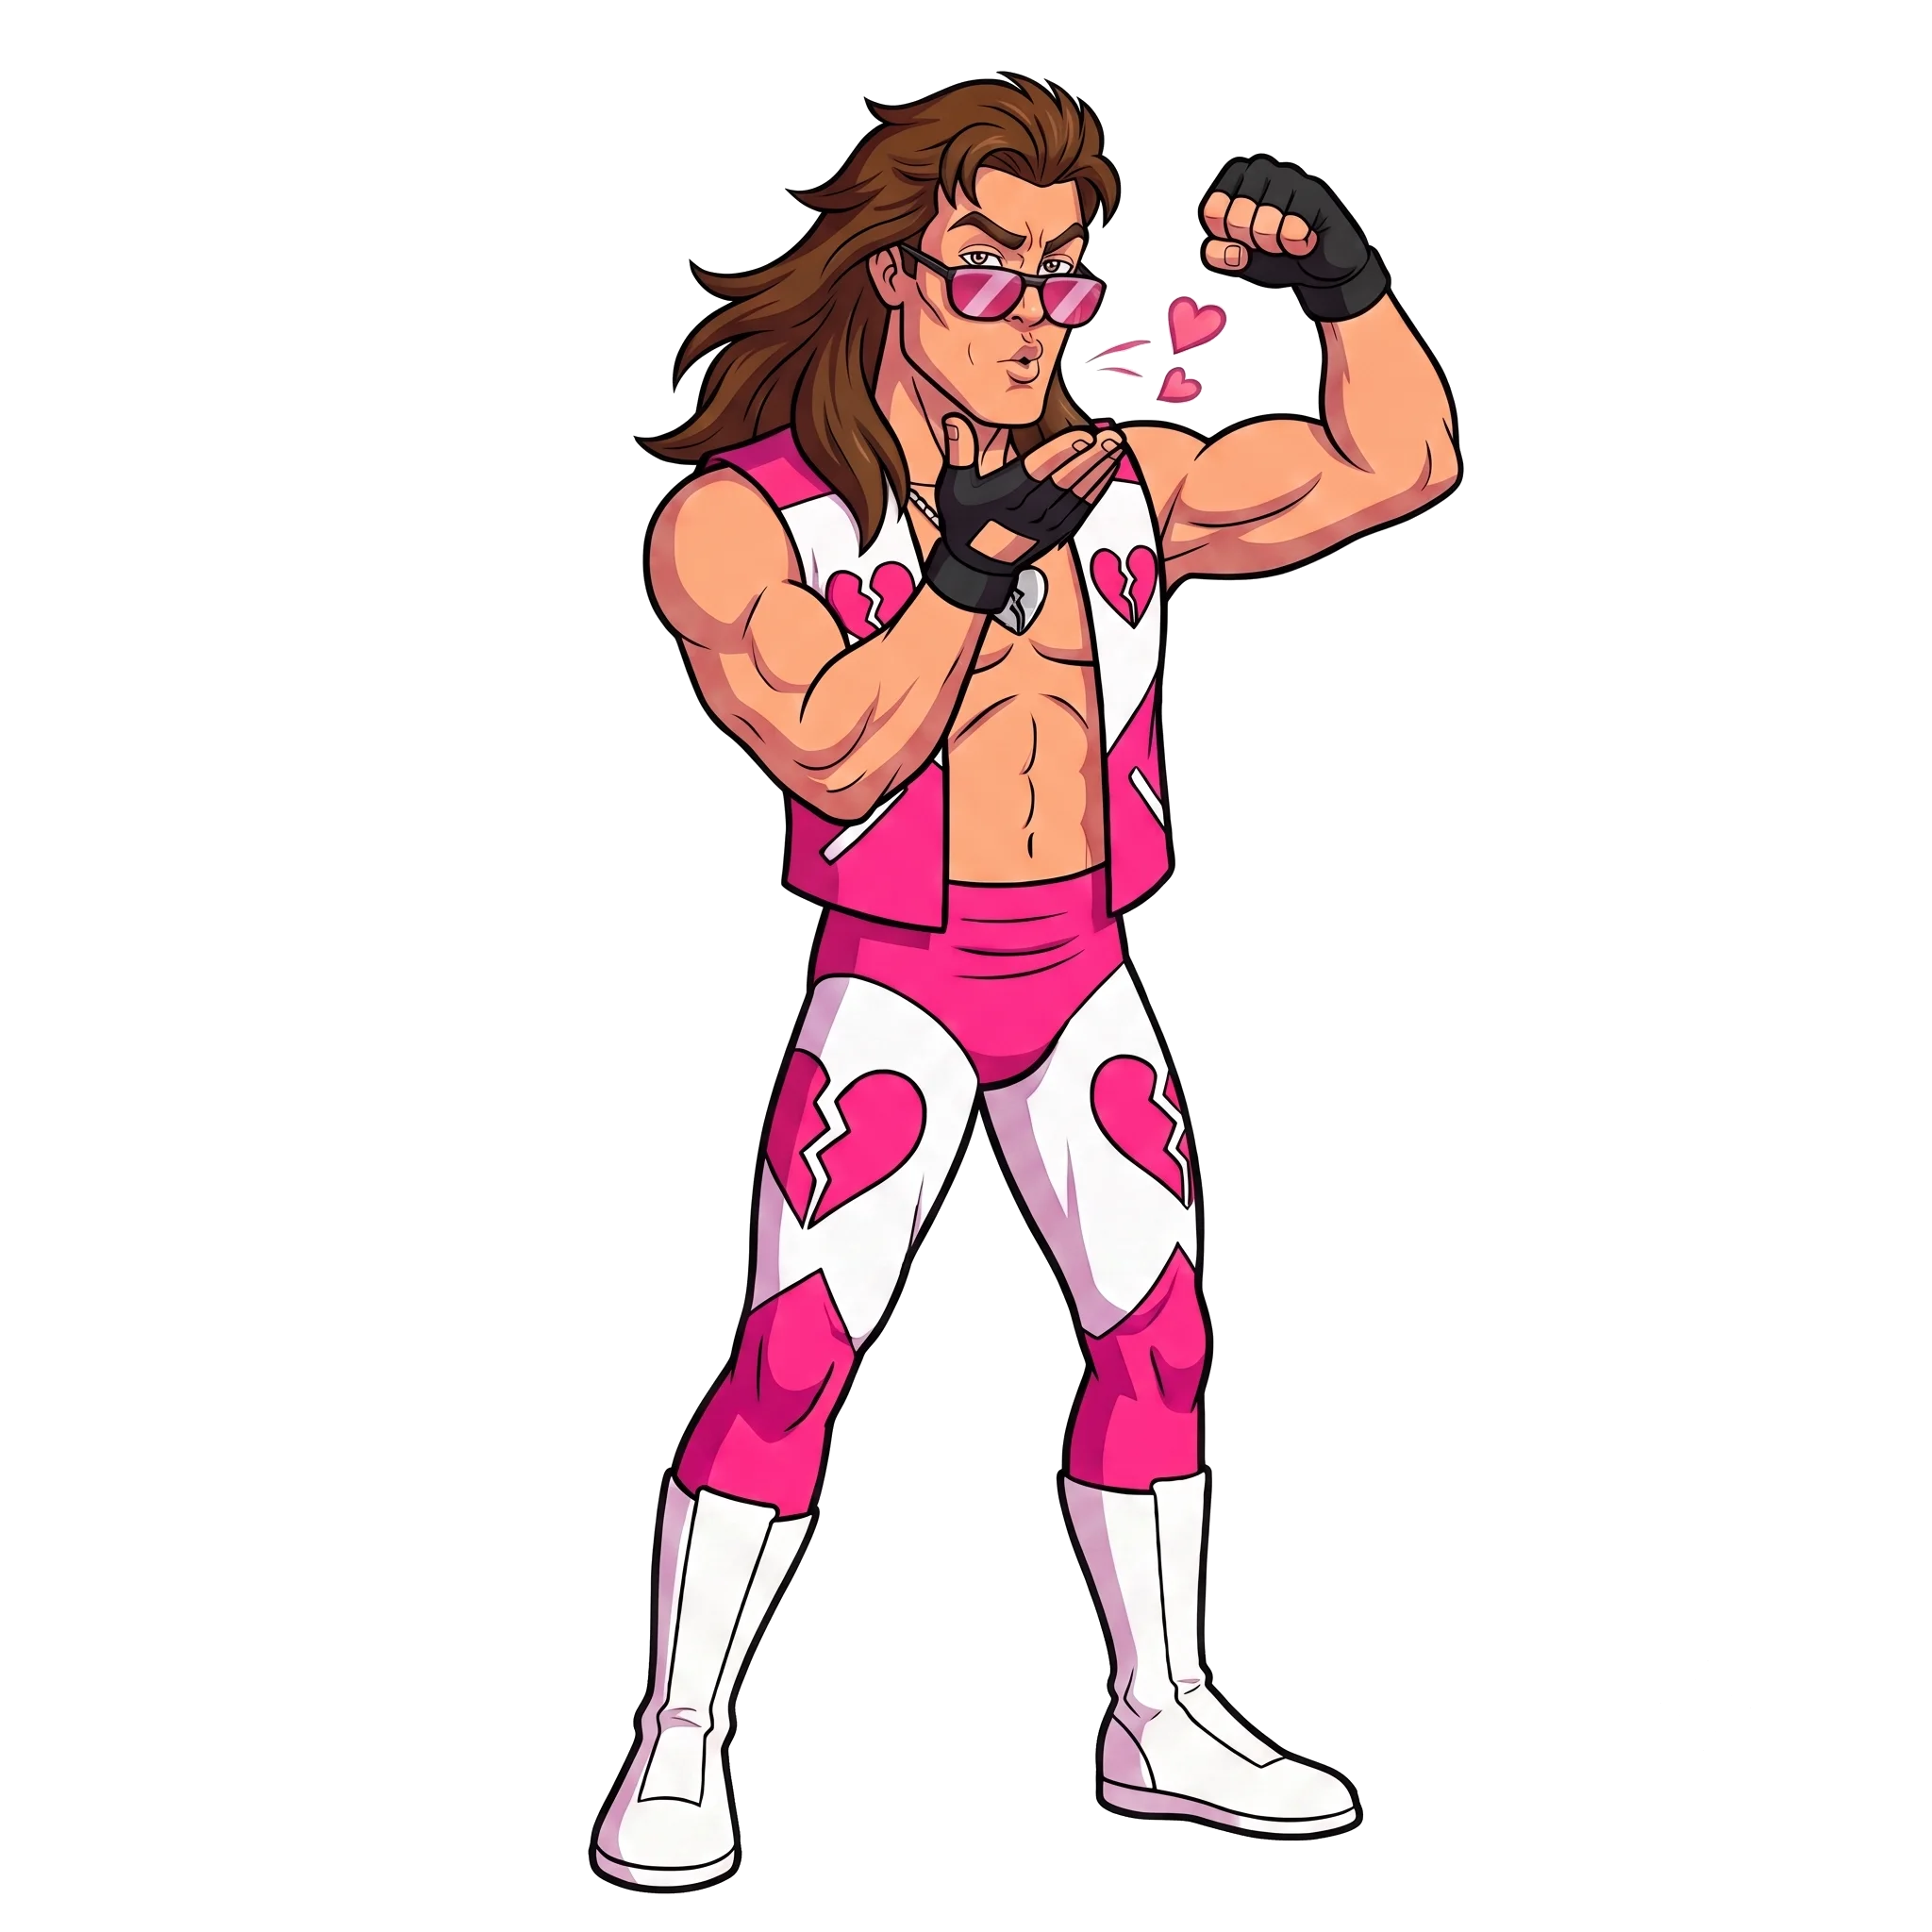
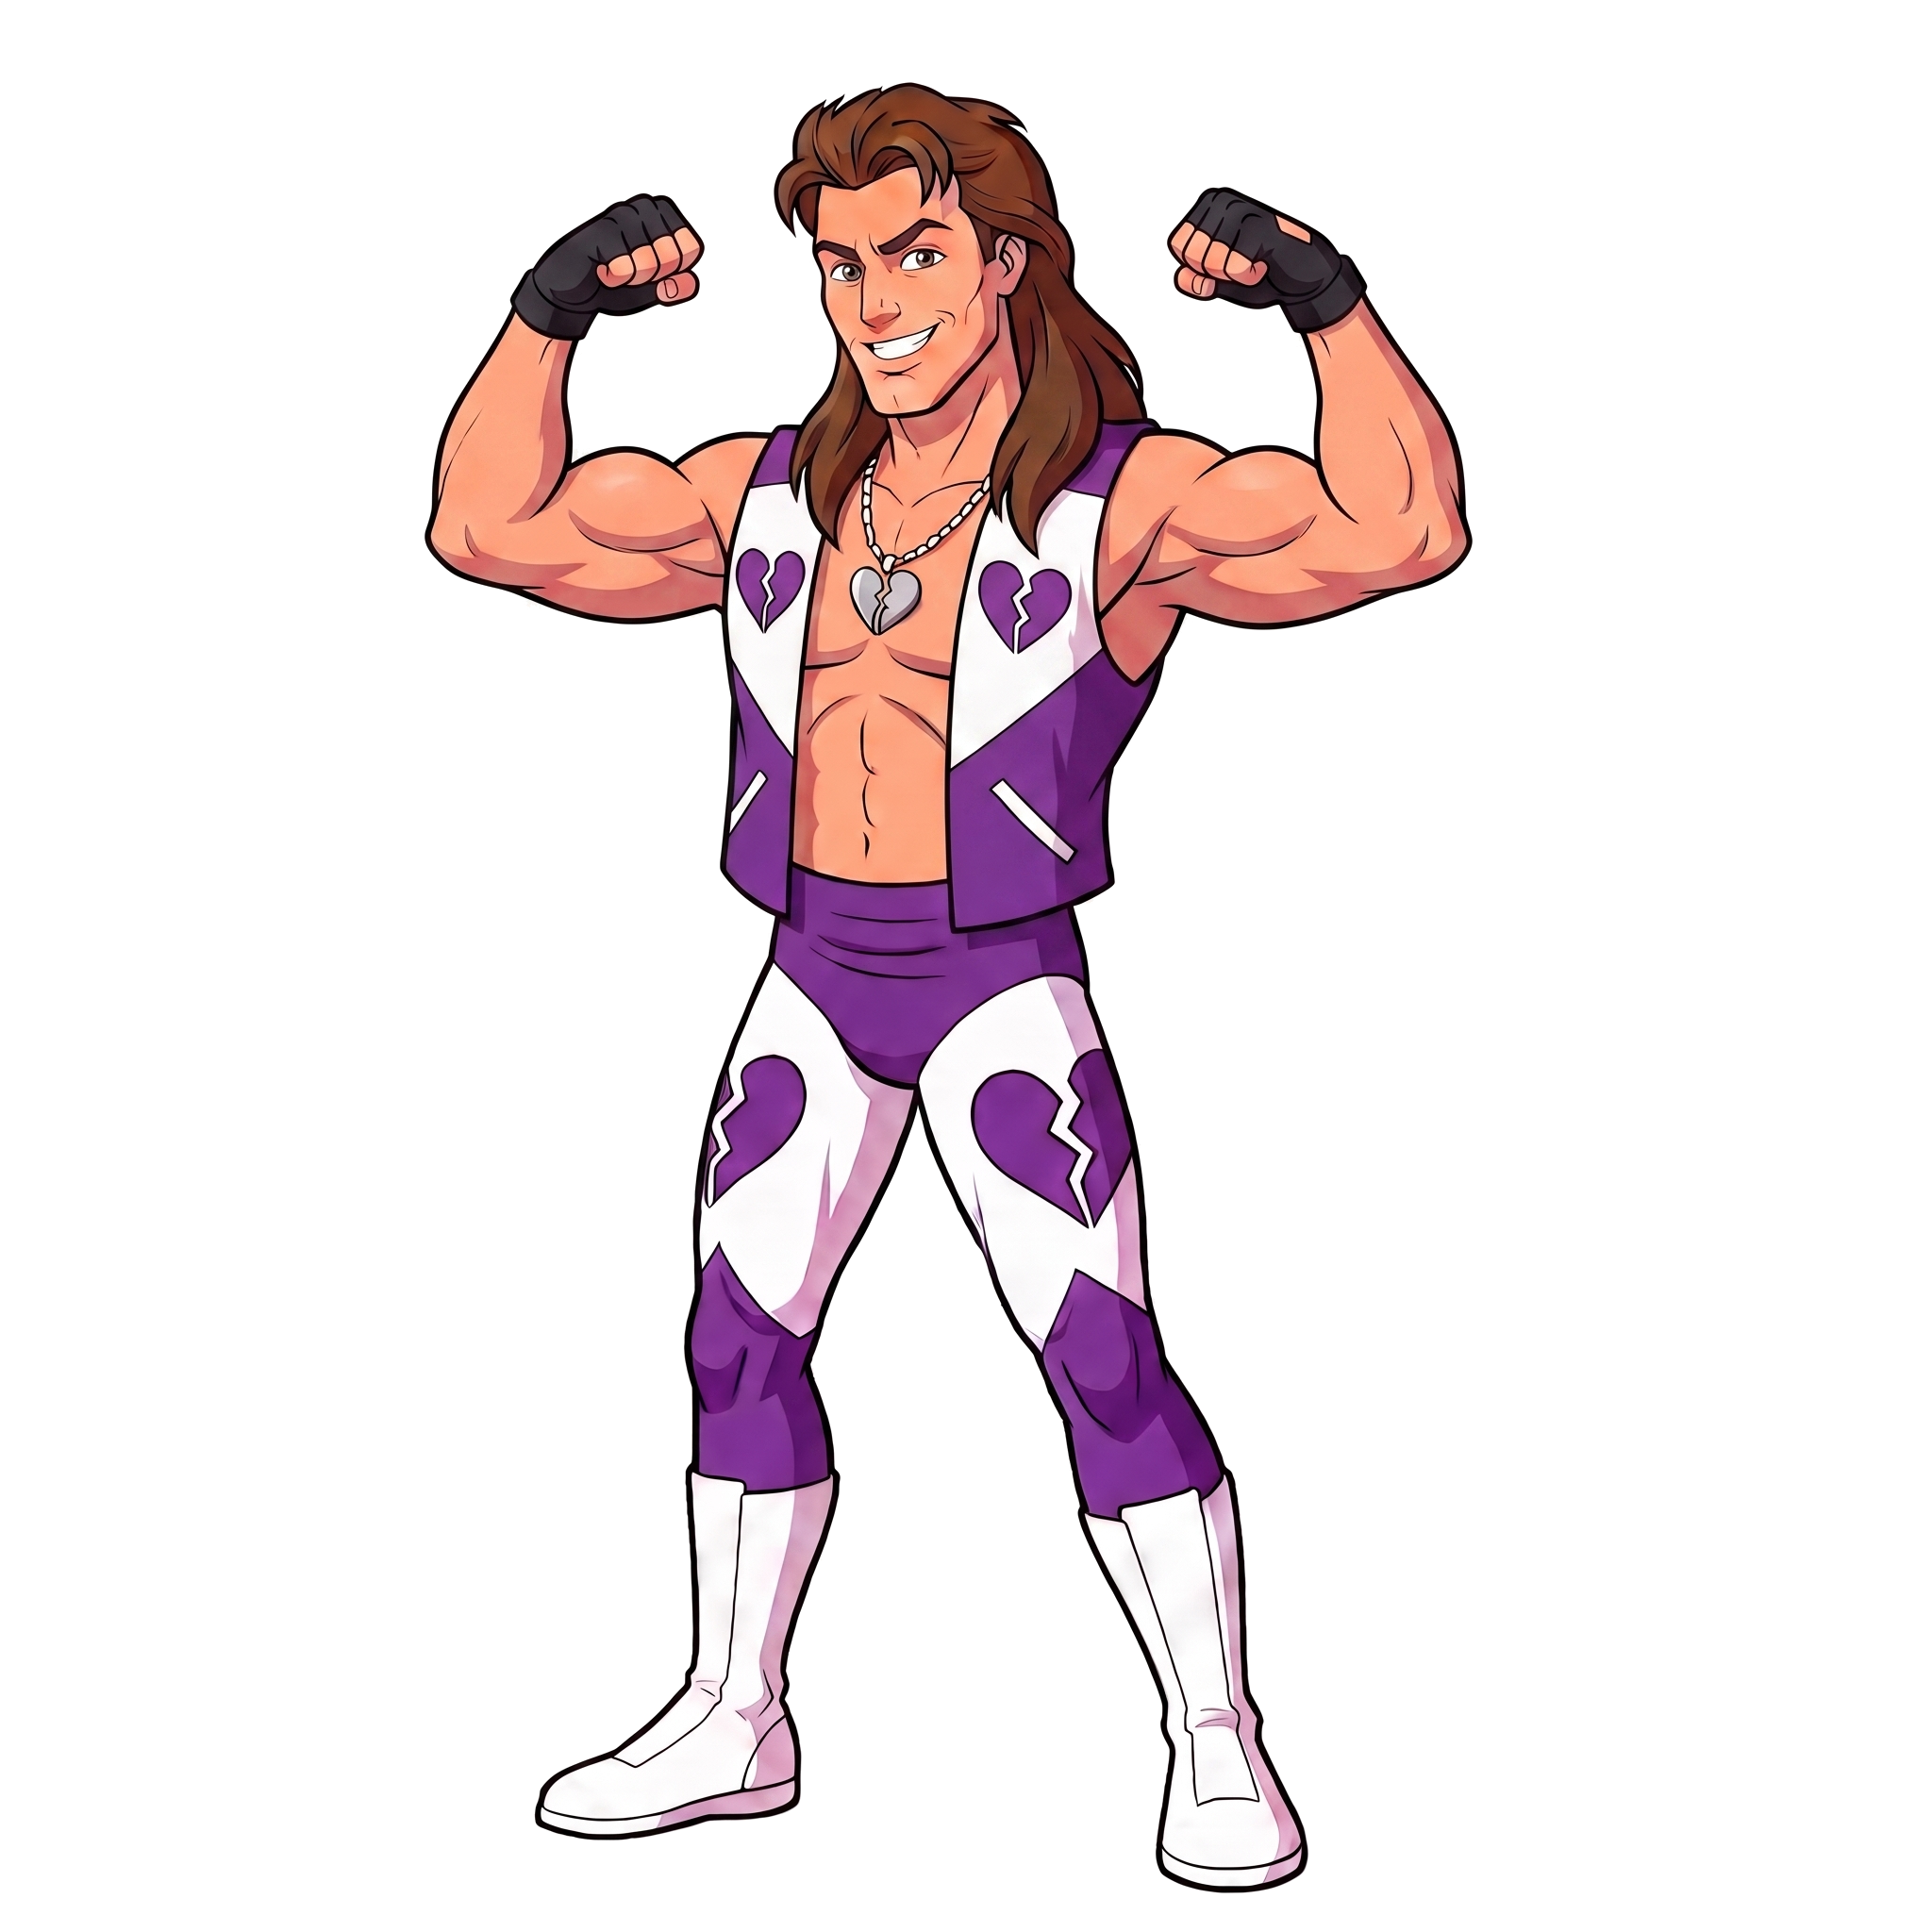
v8.5.7

Changed region(s): [[0.2188, 0.0312, 0.7812, 1.0]]

diff --git a/styles.css b/styles.css
@@ -2006,24 +2006,24 @@ body.career-view .presentation-summary .winner-celebration{
 /* 8.5.5 champion record */
 .lpw855-champion-record{display:block;margin-top:.35rem;color:#d9d9df;font-style:normal;font-size:.9rem;font-weight:700;letter-spacing:.08em}
 
-/* 8.5.6 — illustrated decision cards. Jett Valentine only. */
-.jett-decision-presentation{max-width:1120px!important}
-.jett-decision-grid{display:grid;grid-template-columns:repeat(3,minmax(0,1fr));gap:14px;margin-top:16px}
-.jett-decision-card{position:relative;display:block;overflow:hidden;aspect-ratio:3/2;padding:0;border:2px solid #a8792a;border-radius:14px;background:#08080a;color:#fff;cursor:pointer;box-shadow:0 12px 28px rgba(0,0,0,.42);isolation:isolate;transition:transform .18s ease,border-color .18s ease,box-shadow .18s ease}
-.jett-decision-card:hover,.jett-decision-card:focus-visible{transform:translateY(-4px);border-color:#f2cf69;box-shadow:0 17px 35px rgba(0,0,0,.58),0 0 0 2px rgba(242,207,105,.18)}
+/* 8.5.7 — illustrated decision cards. Jett Valentine only. */
+.jett-decision-presentation{max-width:780px!important;max-height:calc(100dvh - 24px);overflow-y:auto;overscroll-behavior:contain;padding-bottom:22px!important}
+.jett-decision-grid{display:grid;grid-template-columns:1fr;gap:14px;margin:16px auto 0;max-width:720px}
+.jett-decision-card{position:relative;display:block;width:100%;overflow:hidden;aspect-ratio:3/2;padding:0;border:2px solid #a8792a;border-radius:14px;background:#08080a;color:#fff;cursor:pointer;box-shadow:0 12px 28px rgba(0,0,0,.42);isolation:isolate;transition:transform .18s ease,border-color .18s ease,box-shadow .18s ease}
+.jett-decision-card:hover,.jett-decision-card:focus-visible{transform:translateY(-3px);border-color:#f2cf69;box-shadow:0 17px 35px rgba(0,0,0,.58),0 0 0 2px rgba(242,207,105,.18)}
 .jett-card-art,.jett-card-art img,.jett-card-shade{position:absolute;inset:0;display:block;width:100%;height:100%}
 .jett-card-art img{object-fit:cover;object-position:center}
-.jett-card-shade{background:linear-gradient(180deg,transparent 42%,rgba(0,0,0,.34) 62%,rgba(0,0,0,.94) 100%);z-index:1}
-.jett-card-copy{position:absolute;z-index:2;left:0;right:0;bottom:0;padding:18px 15px 14px;text-align:left;text-shadow:0 2px 5px #000}
-.jett-card-copy small{display:block;color:#f3cf64;font-size:.62rem;font-weight:900;letter-spacing:.17em;margin-bottom:4px}
-.jett-card-copy b{display:block;font-family:Impact,Haettenschweiler,'Arial Narrow Bold',sans-serif;font-size:clamp(1.05rem,2vw,1.55rem);font-style:italic;letter-spacing:.025em;line-height:1;text-transform:uppercase}
+.jett-card-shade{background:linear-gradient(90deg,transparent 26%,rgba(0,0,0,.08) 48%,rgba(0,0,0,.64) 76%,rgba(0,0,0,.94) 100%);z-index:1}
+.jett-card-copy{position:absolute;z-index:2;right:0;bottom:0;width:min(70%,520px);padding:18px 18px 15px;text-align:right;text-shadow:0 2px 5px #000}
+.jett-card-copy small{display:block;color:#f3cf64;font-size:.72rem;font-weight:900;letter-spacing:.17em;margin-bottom:5px}
+.jett-card-copy b{display:block;font-family:Impact,Haettenschweiler,'Arial Narrow Bold',sans-serif;font-size:clamp(1.25rem,4vw,2rem);font-style:italic;letter-spacing:.025em;line-height:1;text-transform:uppercase}
 @media(max-width:760px){
- .jett-decision-presentation{padding:18px 12px!important}
+ .jett-decision-presentation{padding:18px 12px 24px!important;max-height:calc(100dvh - 12px)}
  .jett-decision-presentation h2{font-size:1.55rem!important;margin:.35rem 0!important}
  .jett-decision-presentation>p{font-size:.8rem!important;margin:.35rem auto .7rem!important}
- .jett-decision-grid{gap:7px;margin-top:10px}
- .jett-decision-card{border-radius:9px;border-width:1px}
- .jett-card-copy{padding:11px 8px 8px}
- .jett-card-copy small{font-size:.43rem;letter-spacing:.1em;margin-bottom:2px}
- .jett-card-copy b{font-size:clamp(.68rem,3vw,.92rem)}
+ .jett-decision-grid{gap:10px;margin-top:10px}
+ .jett-decision-card{border-radius:10px;border-width:1px}
+ .jett-card-copy{width:72%;padding:12px 11px 10px}
+ .jett-card-copy small{font-size:.5rem;letter-spacing:.11em;margin-bottom:3px}
+ .jett-card-copy b{font-size:clamp(.95rem,5.2vw,1.35rem)}
 }

diff --git a/index.html b/index.html
@@ -19,7 +19,7 @@
   </style>
   <script>
   (function(){
-    var key='lpw-cache-8.5.5';
+    var key='lpw-cache-8.5.7';
     if(!sessionStorage.getItem(key)){
       sessionStorage.setItem(key,'1');
       if('serviceWorker' in navigator){navigator.serviceWorker.getRegistrations().then(function(rs){return Promise.all(rs.map(function(r){return r.unregister();}));}).catch(function(){});}
@@ -27,16 +27,16 @@
     }
   })();
   </script>
-  <link rel="stylesheet" href="styles.css?v=8.5.5">
-  <script>window.TTG_APP_VERSION='8.5.5';</script>
-  <script src="update-manager.js?v=8.5.5" defer></script>
-  <script src="data.js?v=8.5.5" defer></script>
-  <script src="assets/config/imageManager.js?v=8.5.5" defer></script>
-  <script src="game.js?v=8.5.5" defer></script>
+  <link rel="stylesheet" href="styles.css?v=8.5.7">
+  <script>window.TTG_APP_VERSION='8.5.7';</script>
+  <script src="update-manager.js?v=8.5.7" defer></script>
+  <script src="data.js?v=8.5.7" defer></script>
+  <script src="assets/config/imageManager.js?v=8.5.7" defer></script>
+  <script src="game.js?v=8.5.7" defer></script>
 </head>
 <body>
   <div id="lpw-boot-screen"><div><b>LEGACY</b><span>PRO WRESTLING</span><small>Loading current game data…</small></div></div>
-  <header><button onclick="home()" class="logo"><span>LEGACY</span><b>PRO WRESTLING</b></button><div class="header-meta"><span class="build-tag">VERSION 8.5.5</span><div class="streak">STREAK <strong id="streak">0</strong></div></div></header>
+  <header><button onclick="home()" class="logo"><span>LEGACY</span><b>PRO WRESTLING</b></button><div class="header-meta"><span class="build-tag">VERSION 8.5.7</span><div class="streak">STREAK <strong id="streak">0</strong></div></div></header>
   <main id="app"></main><div id="overlay"></div>
   <script>
     window.setTimeout(function(){

diff --git a/game.js b/game.js
@@ -1361,7 +1361,7 @@ const LPW_DECISION_GUIDANCE=true;
 function lpwRiskLabel(chance){return chance>=.68?{key:'favourable',label:'FAVOURABLE'}:chance>=.52?{key:'balanced',label:'BALANCED'}:{key:'risky',label:'RISKY'}}
 function lpwAttrNames(action){return (ACTION_META[action]?.attrs||[]).map(x=>x.charAt(0).toUpperCase()+x.slice(1)).join(' + ')}
 function lpwGuidance(action){return ({risk:'Huge swing if it lands; failure can hand control away.',control:'Reliable way to steady the match and protect your position.',pressure:'Builds control without committing everything to one moment.',comeback:'Can reverse a crisis quickly; failure may deepen the danger.',survive:'Safer counter that stabilises the match for a smaller reward.',finisher:'Match-ending potential with the highest consequences if countered.',tag:'Uses teamwork and fresh energy to change the match.'})[action]||'Changes the next exchange.'}
-/* 8.5.6 Decision Card Framework — enabled only for Jett Valentine. */
+/* 8.5.7 Decision Card Framework — enabled only for Jett Valentine. */
 const JETT_DECISION_CARDS={
  opening:[
   {name:'Steal the Spotlight',slug:'steal-the-spotlight',action:'risk'},

diff --git a/service-worker.js b/service-worker.js
@@ -1,5 +1,5 @@
 /* LEGACY Pro Wrestling Service Worker 8.3.7 Build 9 */
-const APP_VERSION = '8.5.6-jett-decision-cards';
+const APP_VERSION = '8.5.7-jett-vertical-cards';
 const CACHE_NAME = `lpw-${APP_VERSION}`;
 const CRITICAL_FILES = ['index.html','game.js','onboarding-wording-fix.js','data.js','styles.css','version.json','service-worker.js','update-manager.js','assets/config/imageManager.js'];
 

diff --git a/VERSION-8.5.7-TEST-NOTES.md b/VERSION-8.5.7-TEST-NOTES.md
@@ -1,0 +1,7 @@
+# LEGACY Pro Wrestling 8.5.7 — Jett Vertical Decision Cards
+
+- Jett Valentine illustrated decisions now appear as three full-width landscape cards stacked vertically.
+- Card title overlay remains on the full image and is right-aligned.
+- Readability gradient now darkens toward the right edge.
+- Jett full, portrait and victory artwork replaced with the three supplied images and converted to lossless WebP.
+- Other wrestlers retain the existing text decision format.